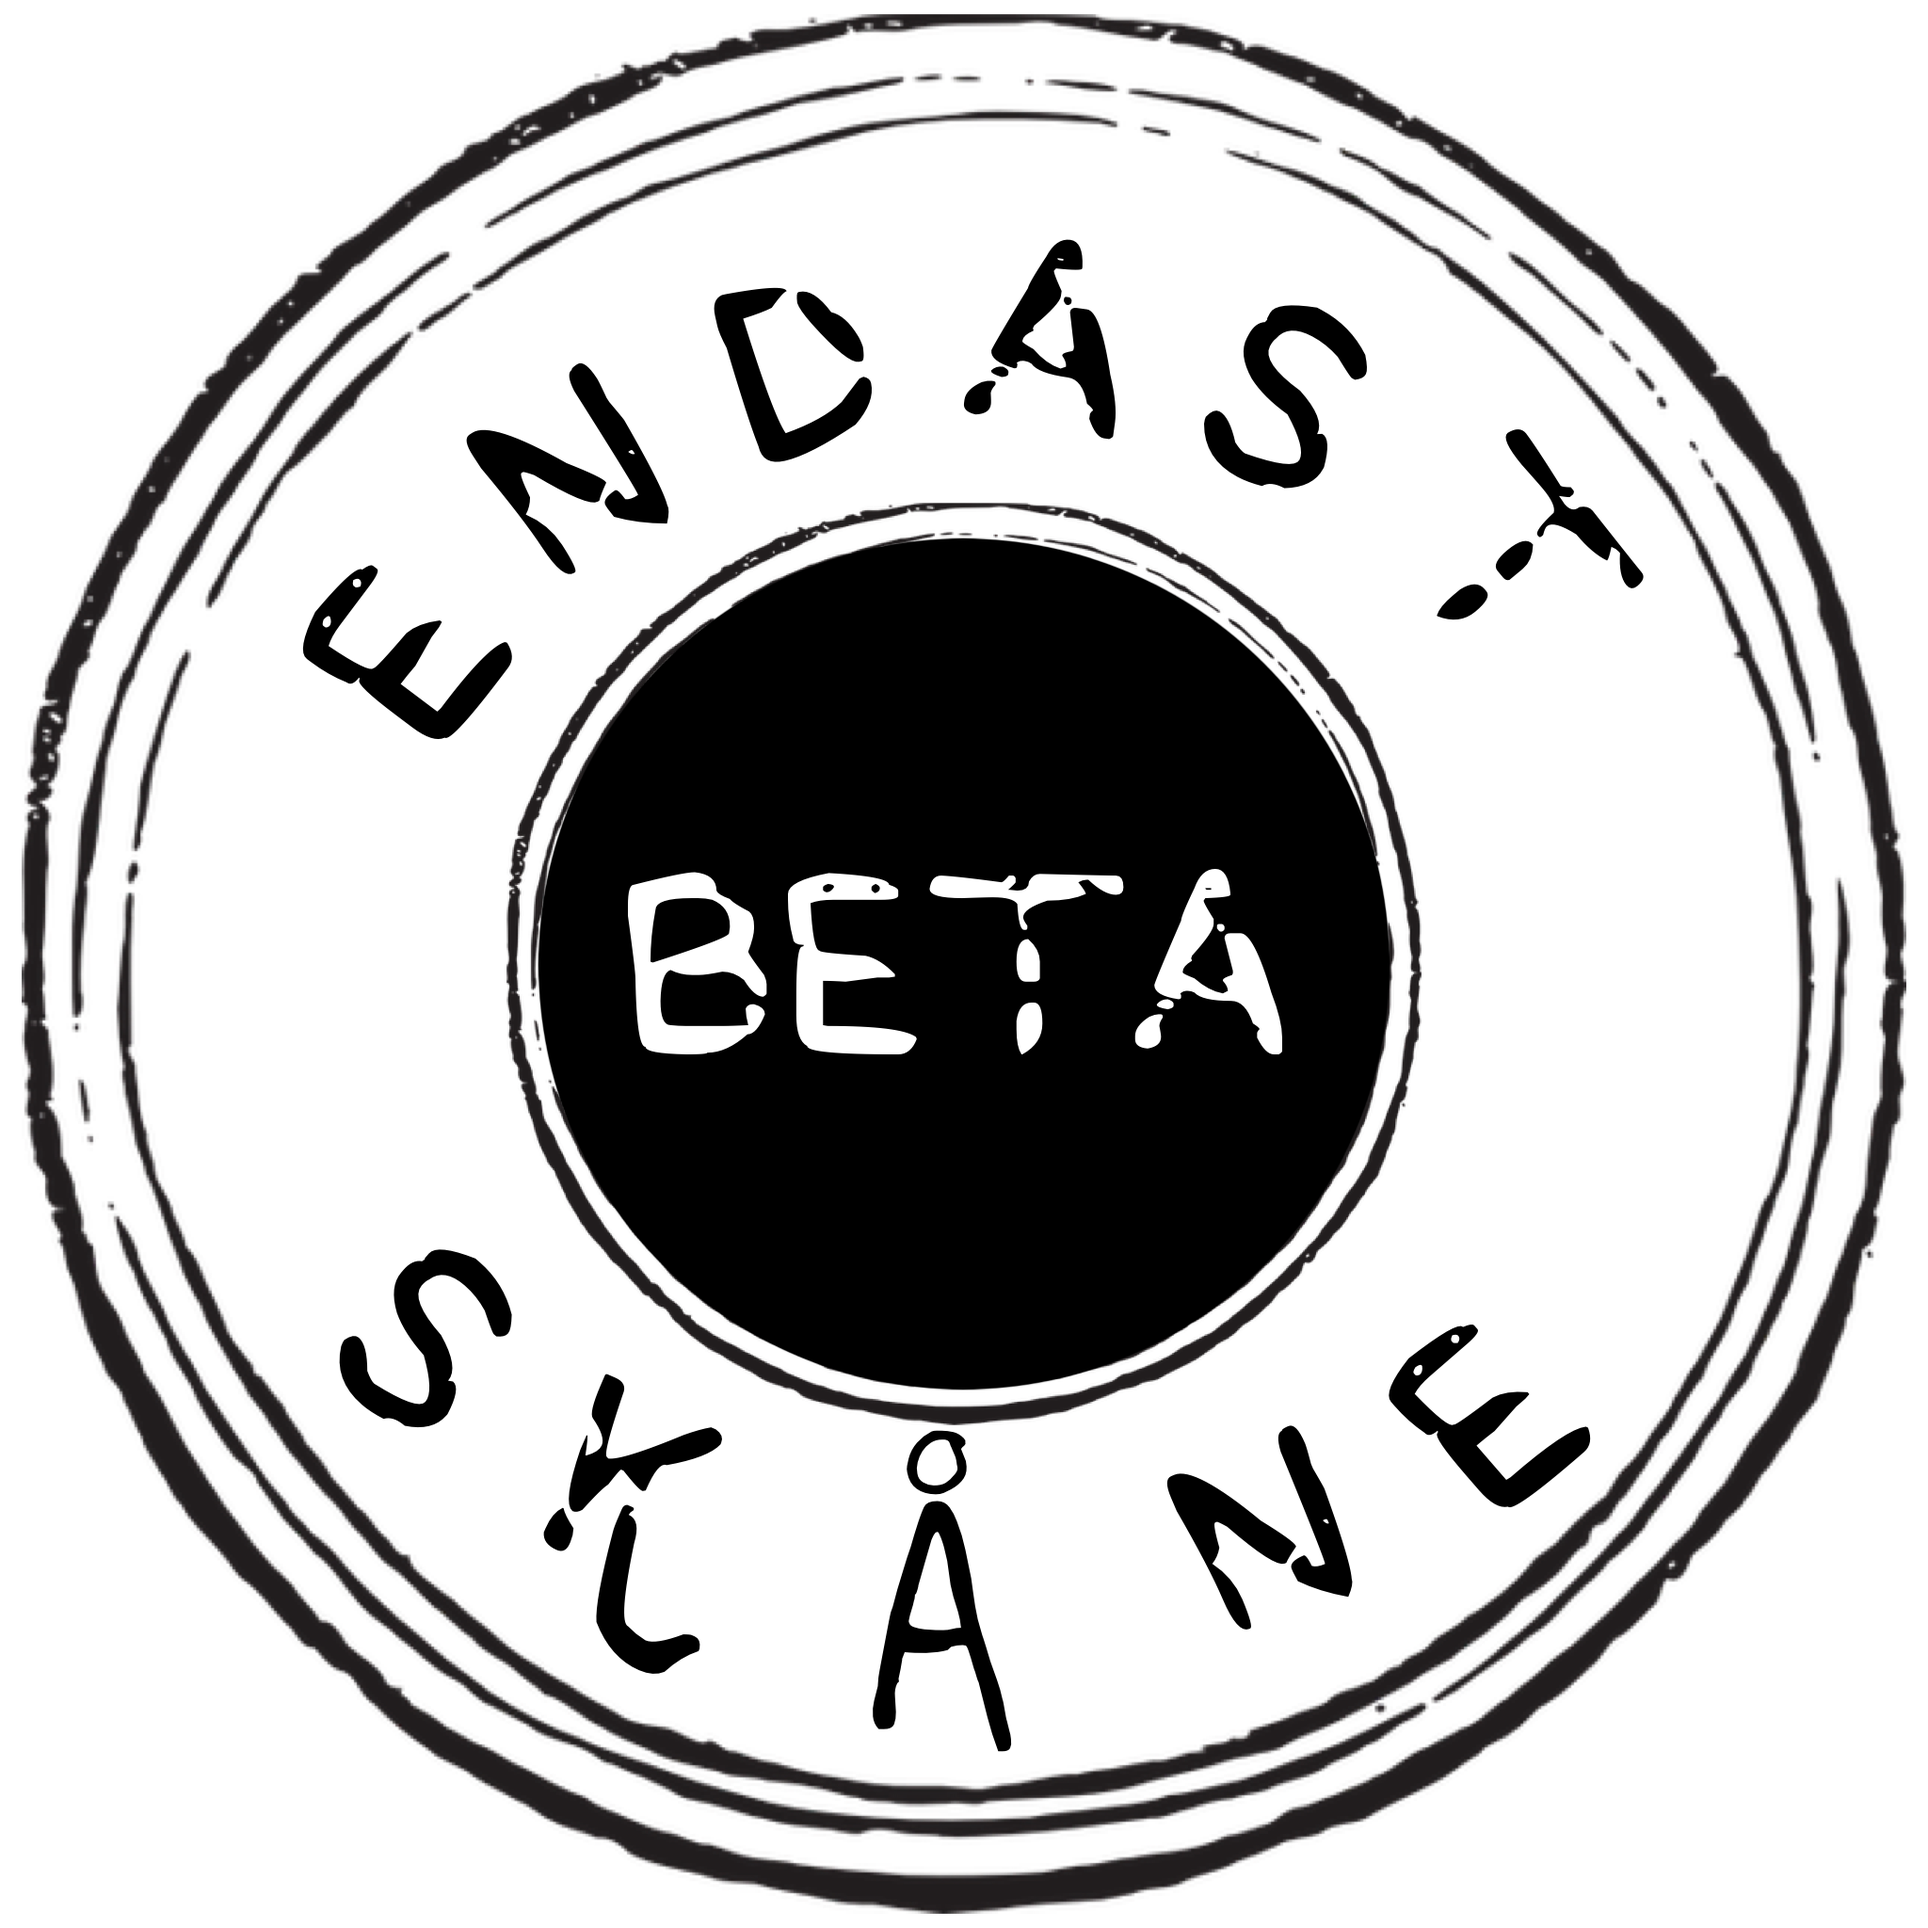
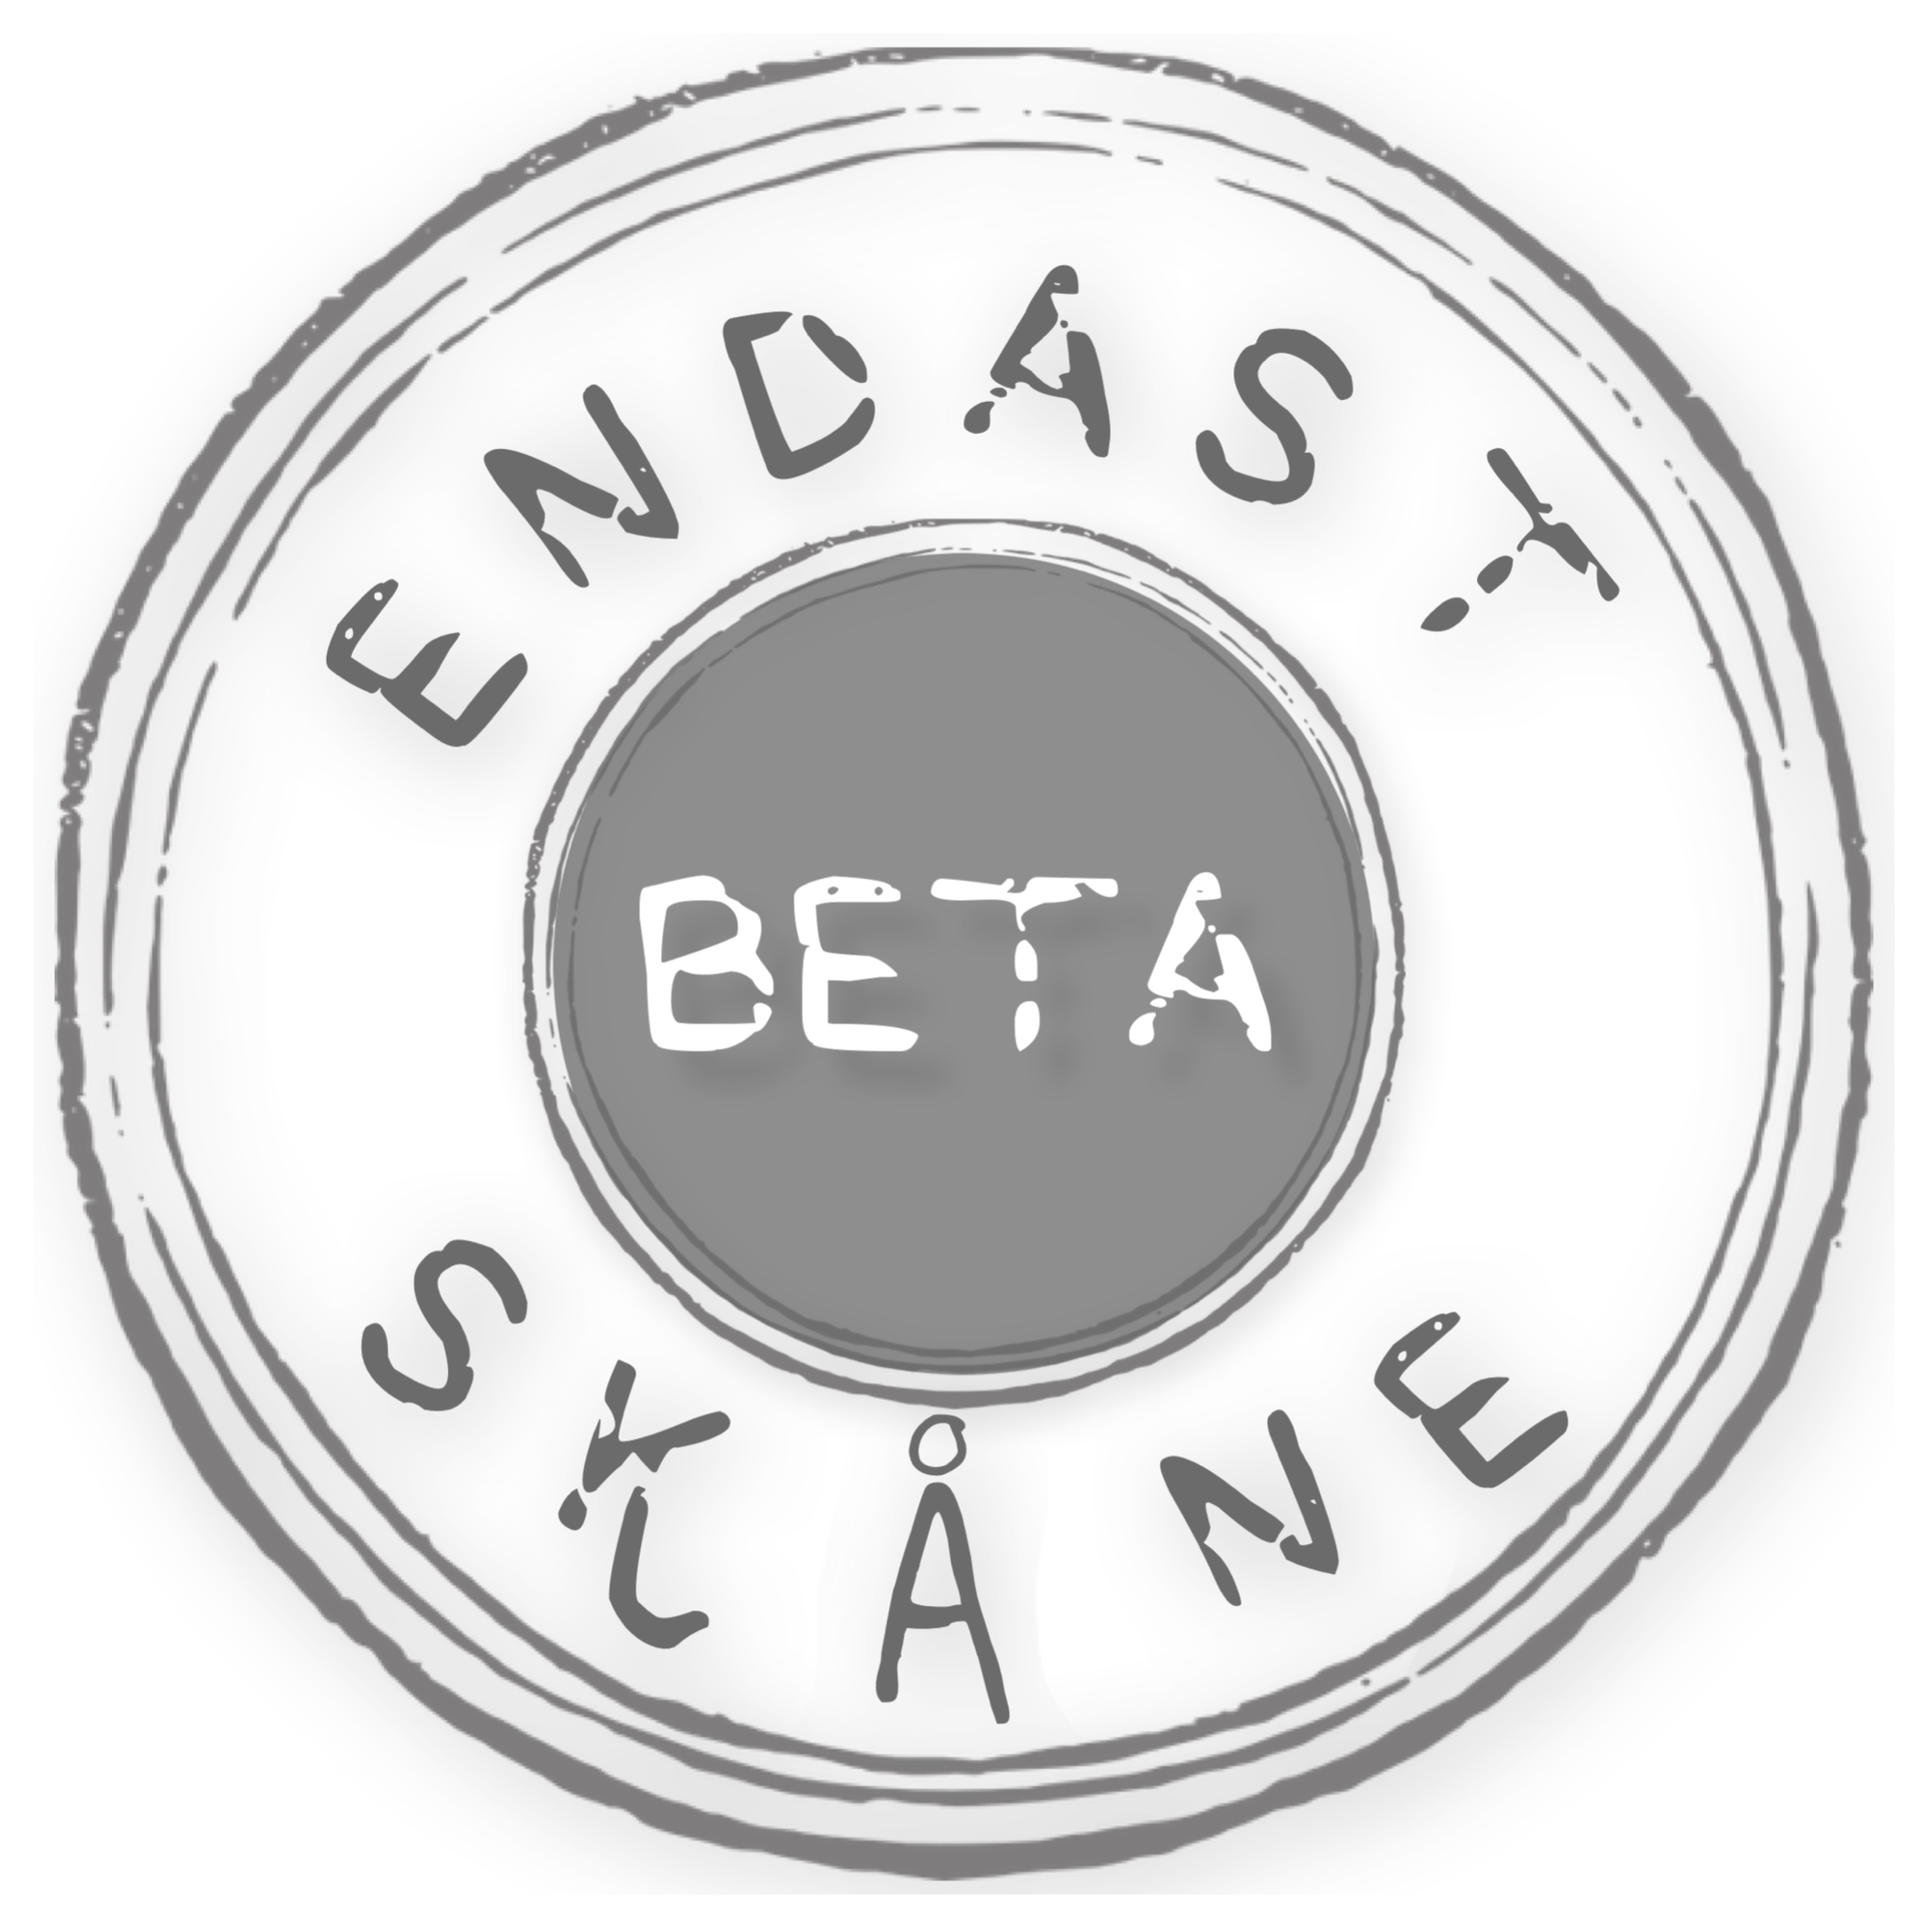
responsive stamp
Alot of css for the stamp

diff --git a/matentus/client/app/styles/custom/index.css b/matentus/client/app/styles/custom/index.css
@@ -9,6 +9,40 @@ body{
     font-weight: 100;
     padding: 0px;
 }
+#beta-stamp{
+    position: absolute;
+    margin-top: 8.5%;
+    left: 5%;
+    transform: scale(6.5) rotate(-25deg);
+    max-width: 100px;
+}
+@media screen and (min-width: 768px){
+    #beta-stamp{
+        position: absolute;
+        margin-top: 5.5%;
+        top: 7%;
+        left: 4.5%;
+        transform: scale(2) rotate(-25deg);
+    }
+}
+@media screen and (min-width: 992px){
+    #beta-stamp{
+        position: absolute;
+        margin-top: 5%;
+        top: 7%;
+        left: 3.5%;
+        transform: scale(1.5) rotate(-25deg);
+    }
+}
+@media screen and (min-width: 1200px){
+    #beta-stamp{
+        position: absolute;
+        margin-top: 4%;
+        top: 5%;
+        left: 6.2%;
+        transform: scale(1.3) rotate(-25deg);
+    }
+}
 /*
 .portfolio-item {
     margin-bottom: 25px;
@@ -193,7 +227,7 @@ footer {
   padding-left: ($spacer-x * .5) !important;
   padding-right: ($spacer-x * .5) !important;
 }
-@media screen and (max-width: 720px){
+@media screen and (max-width: 992px){
     .sign-in a{
         display: none;
     }

diff --git a/matentus/client/app/index.html b/matentus/client/app/index.html
@@ -73,9 +73,9 @@
 		<!-- Header area -->
 		<div id="header" class="row sorts">
 			<div ng-include src="'views/login.html'"></div>
-			<a href="#">
+			<a href="#" class="col-xs-12">
 				<img alt="head" src="images/header2.PNG" class="col-xs-10 col-xs-offset-1 col-md-10 col-lg-8 col-lg-offset-2">
-                <img alt="beta" src="images/beta-stamp.PNG" class="col-xs-1">
+                <img alt="beta" src="images/beta-stamp2.PNG" class="col-xs-1" id="beta-stamp">
 			</a>
 		</div>
 		<!-- End of header area -->
